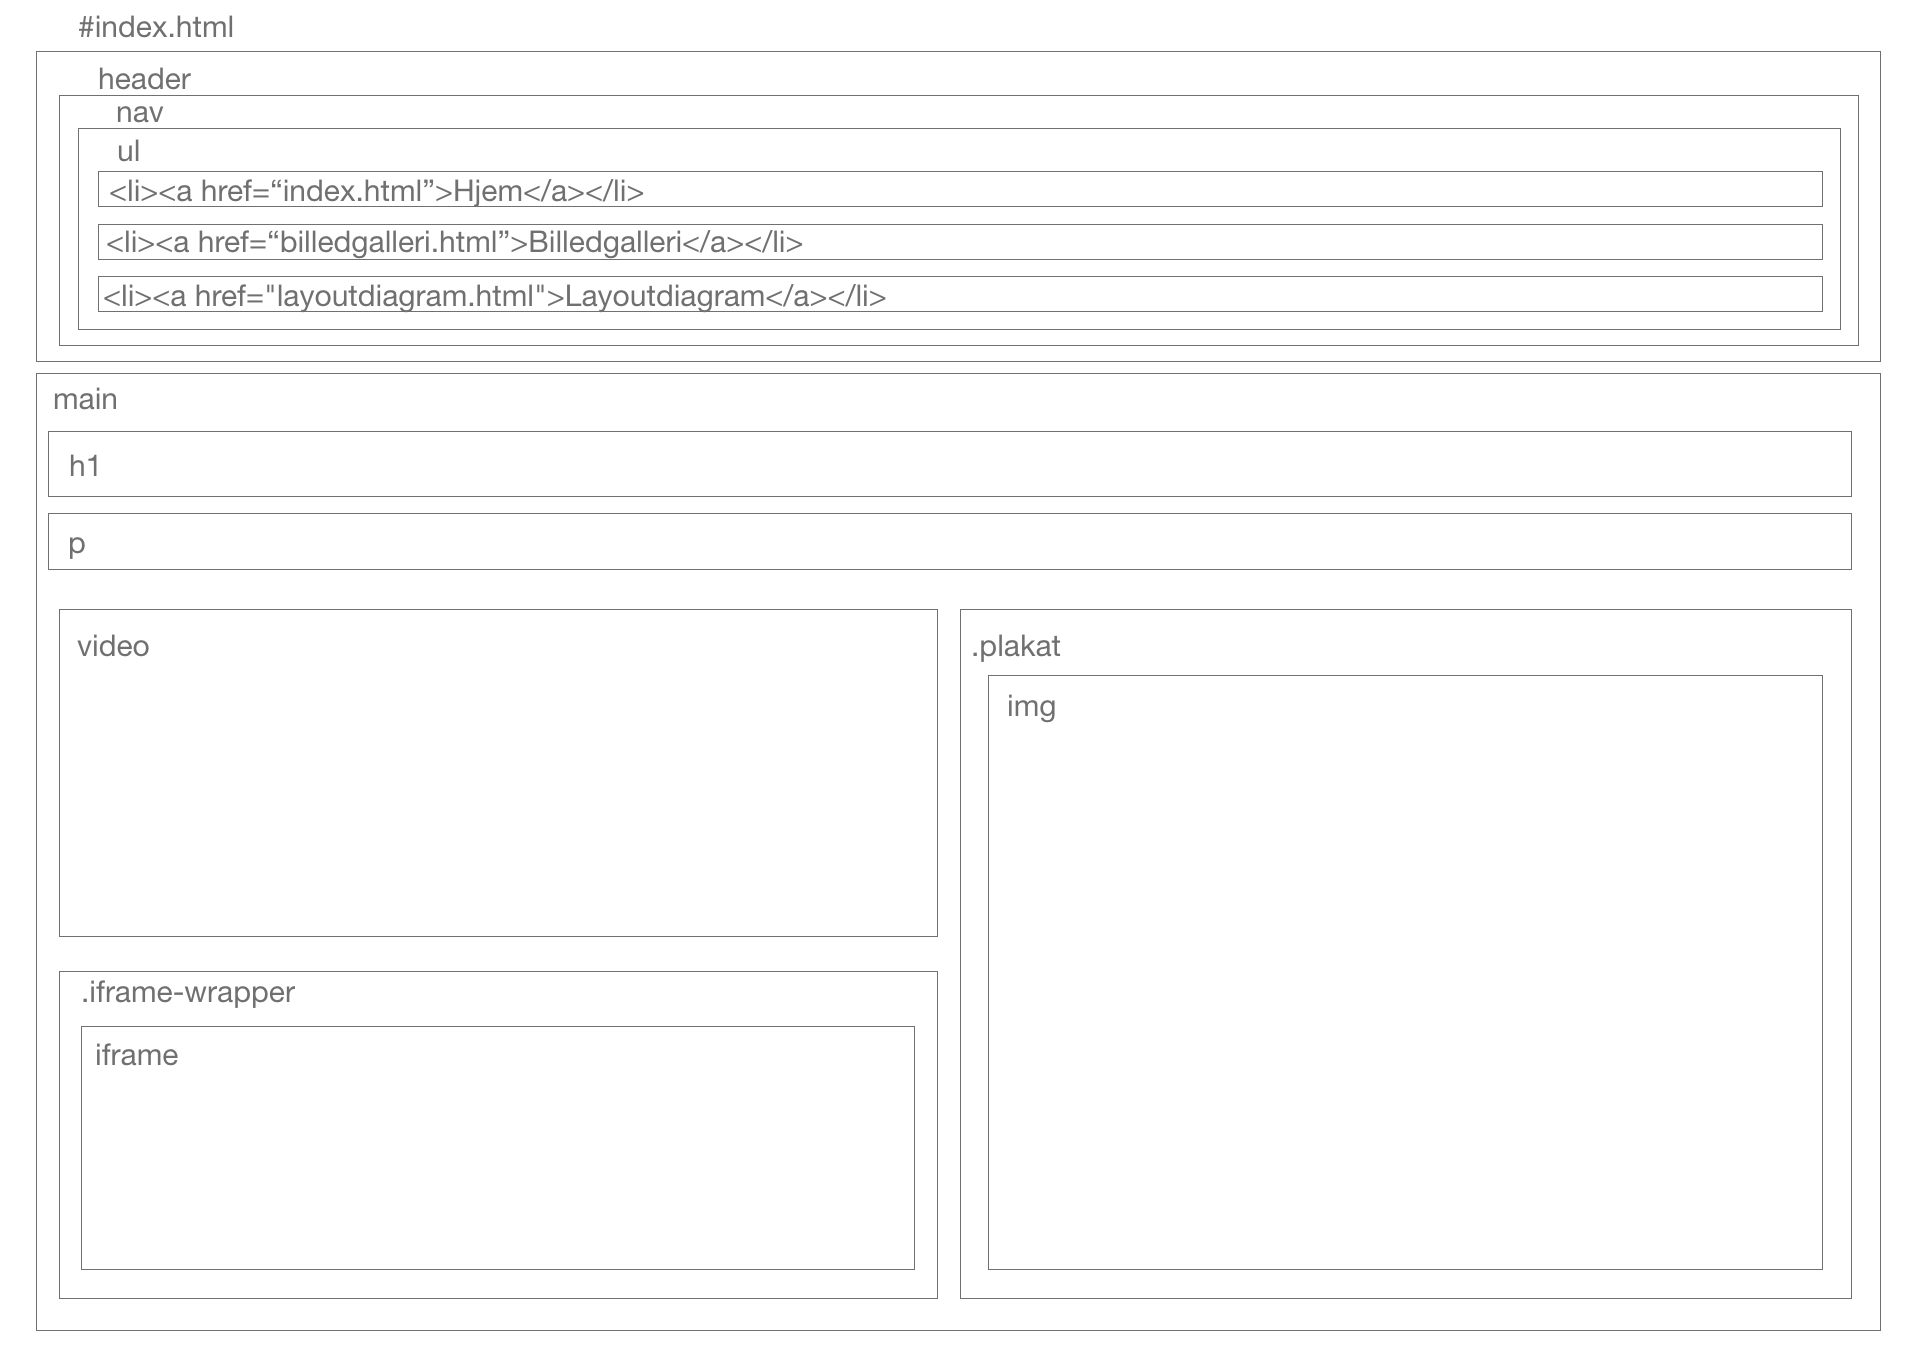
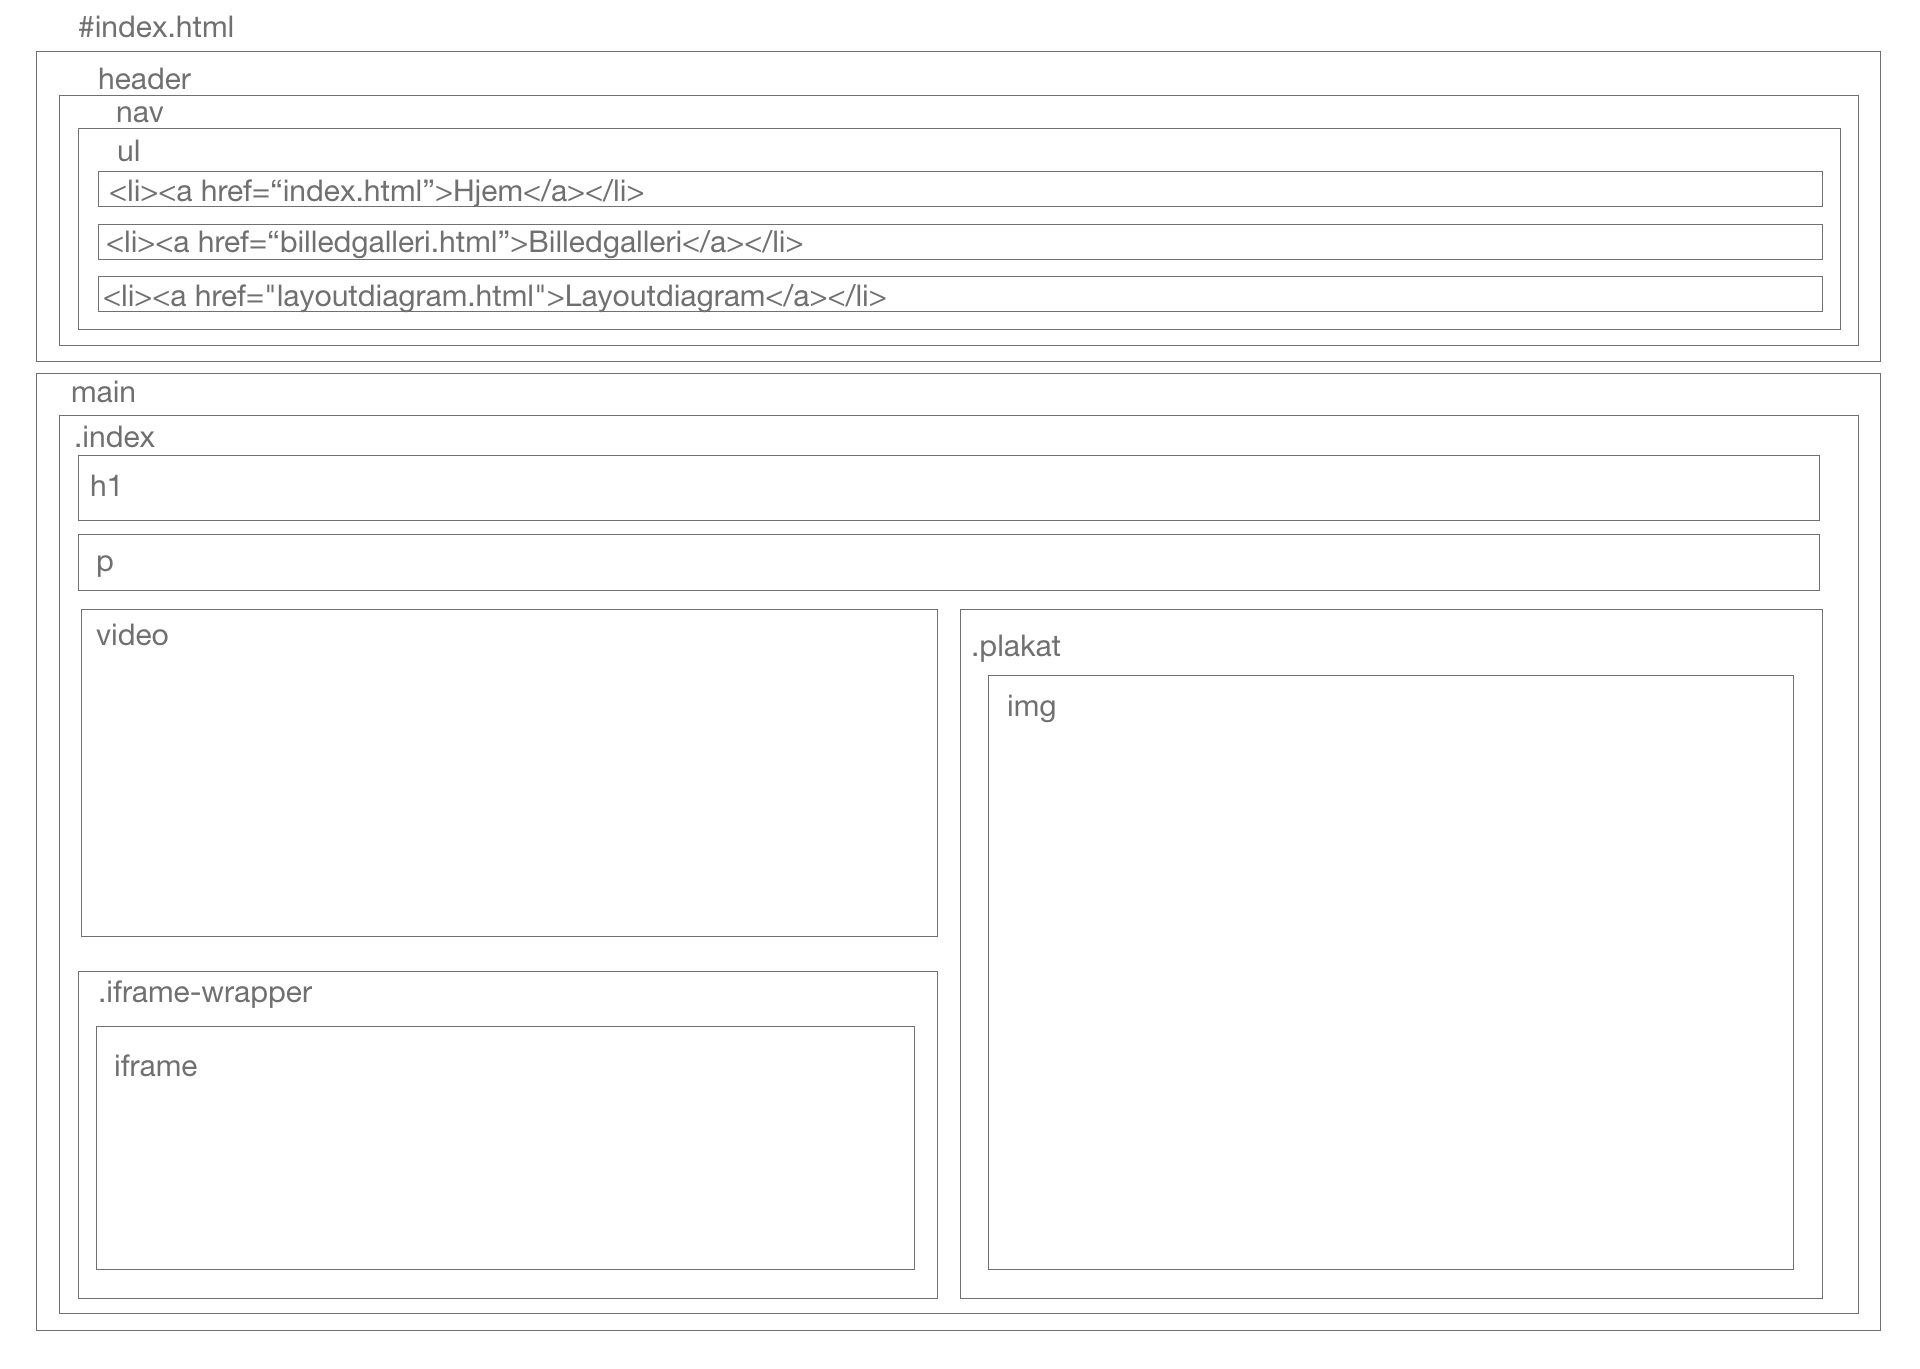
final2

diff --git a/index.html b/index.html
@@ -24,30 +24,32 @@
       </nav>
     </header>
     <main>
-      <h1>Passion For Naturen</h1>
-      <p>
-        Emma studerer Forest and Nature Management på Københavns Universitet og
-        har derfor en stor passion for klima, miljø og natur, som hun fortæller
-        om i denne 1 minuts video.
-      </p>
-      <video
-        controls
-        src="http://marthascales.dk/kea/05-indhold/pilot_video/Interview.mp4"
-      ></video>
-      <div class="iframe-wrapper">
-        <iframe
-          width="560"
-          height="315"
-          src="https://www.youtube.com/embed/ZVbmsb-DUQo"
-          title="YouTube video player"
-          frameborder="0"
-          allow="accelerometer; autoplay; clipboard-write; encrypted-media; gyroscope; picture-in-picture"
-          allowfullscreen
-        ></iframe>
-      </div>
-      <div class="plakat">
-        <img src="plakat.webp" alt="" />
-      </div>
+      <section class="index">
+        <h1>Passion For Naturen</h1>
+        <p>
+          Emma studerer Forest and Nature Management på Københavns Universitet
+          og har derfor en stor passion for klima, miljø og natur, som hun
+          fortæller om i denne 1 minuts video.
+        </p>
+        <video
+          controls
+          src="http://marthascales.dk/kea/05-indhold/pilot_video/Interview.mp4"
+        ></video>
+        <div class="iframe-wrapper">
+          <iframe
+            width="560"
+            height="315"
+            src="https://www.youtube.com/embed/ZVbmsb-DUQo"
+            title="YouTube video player"
+            frameborder="0"
+            allow="accelerometer; autoplay; clipboard-write; encrypted-media; gyroscope; picture-in-picture"
+            allowfullscreen
+          ></iframe>
+        </div>
+        <div class="plakat">
+          <img src="plakat.webp" alt="" />
+        </div>
+      </section>
     </main>
   </body>
 </html>

diff --git a/style.css b/style.css
@@ -89,7 +89,7 @@ iframe {
     grid-column: 1/3;
     grid-row: 1;
   }
-  #index.html main {
+  .index {
     display: grid;
     grid-template-columns: 1fr 1fr;
     grid-template-rows: 100px 100px 1fr 1fr;
